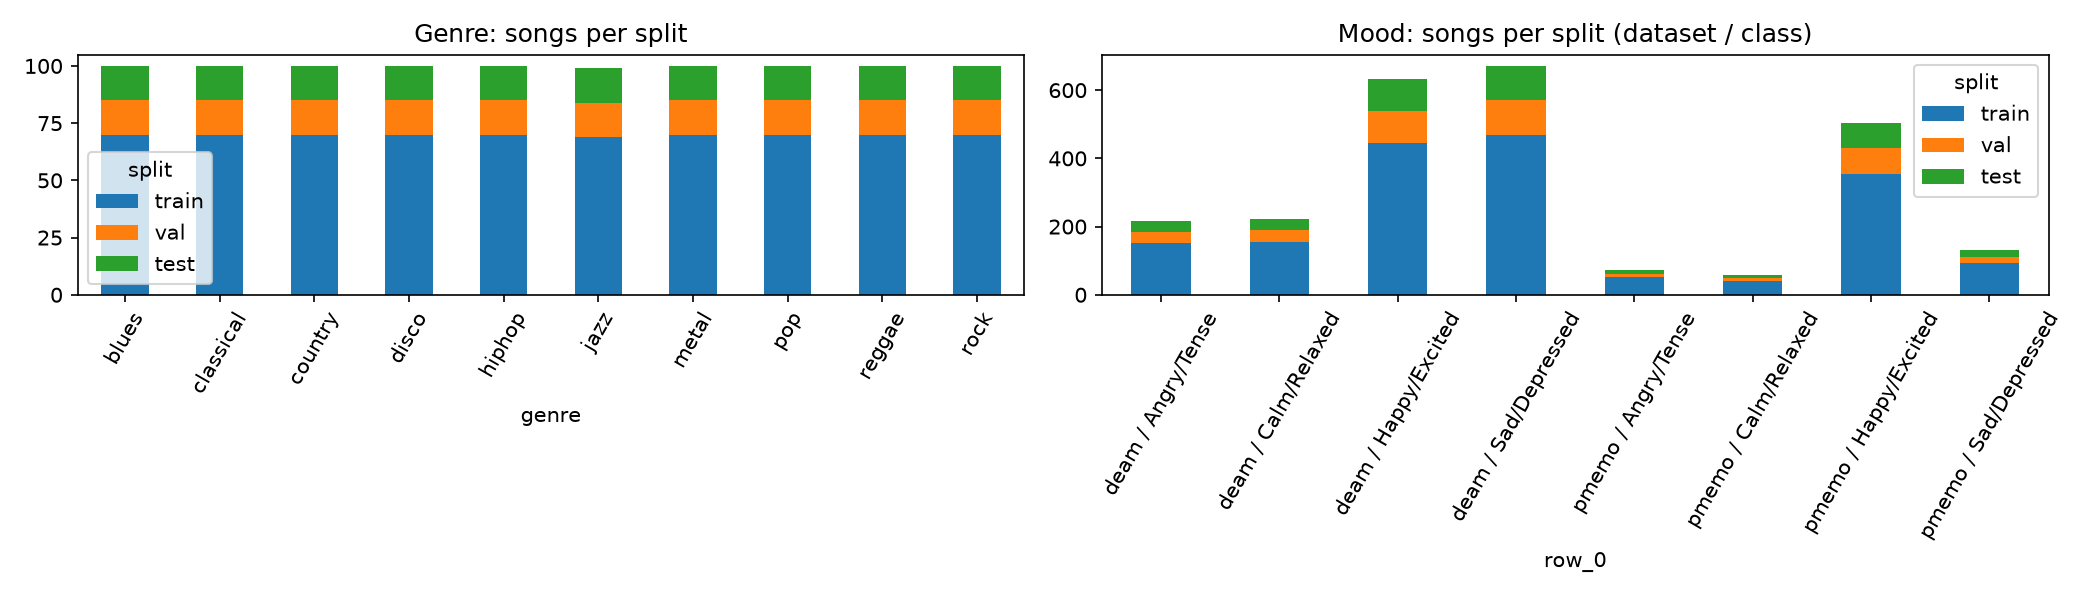
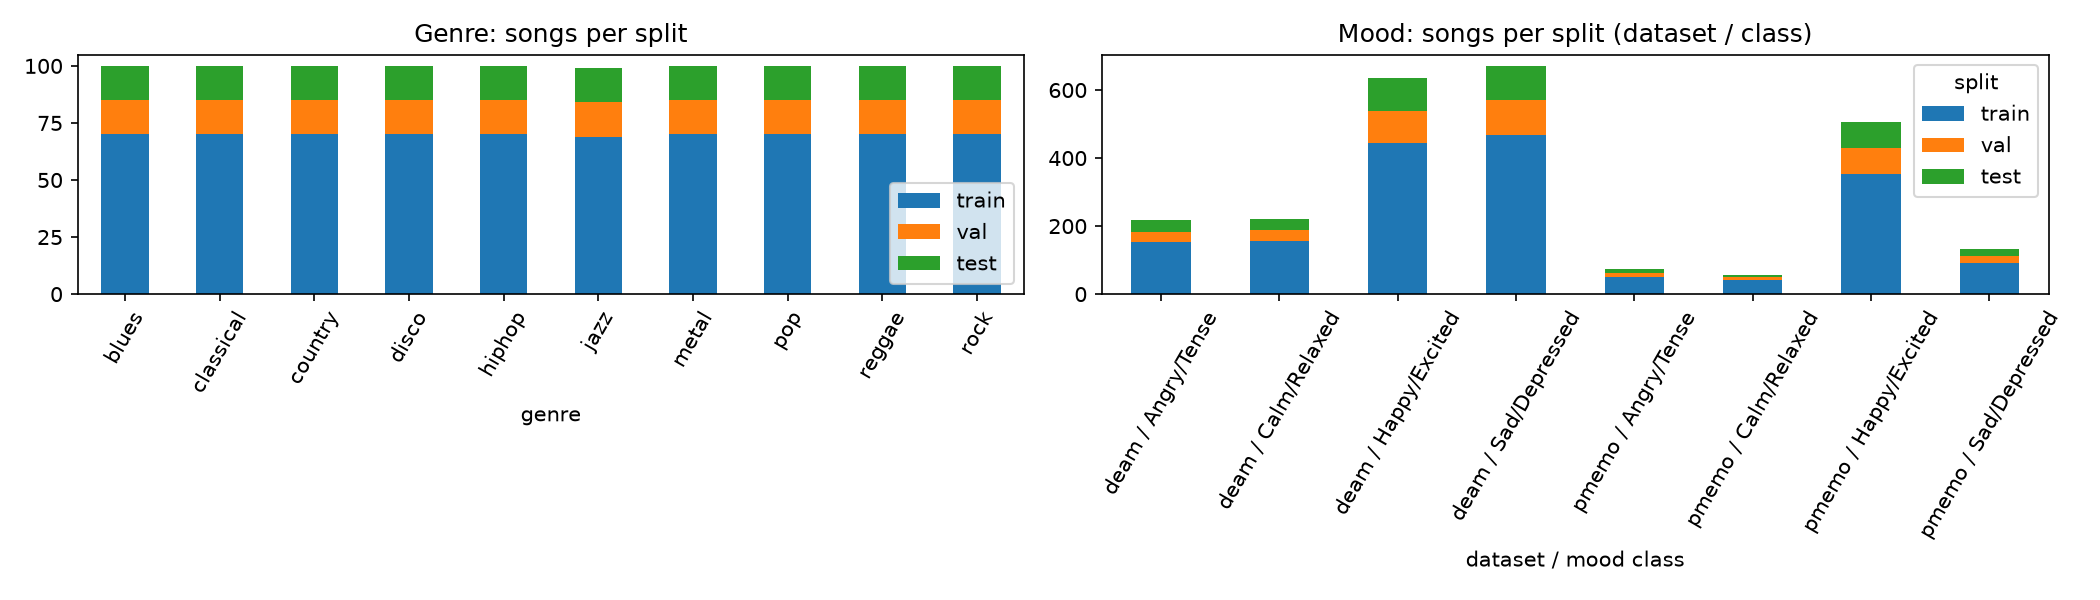
fig 07 labels fix

diff --git a/offline/evaluation/plot_preprocessing.py b/offline/evaluation/plot_preprocessing.py
@@ -42,6 +42,9 @@ def plot_splits(genre: pd.DataFrame, mood: pd.DataFrame) -> None:
     axes[1].set_title("Mood: songs per split (dataset / class)")
     for ax in axes:
         ax.tick_params(axis="x", rotation=60)
+    
+    axes[0].legend(loc="lower right")
+    axes[1].set_xlabel("dataset / mood class")
     plt.tight_layout()
     plt.savefig(FIG_DIR / "07_split_sizes.png", dpi=150)
     plt.close()
